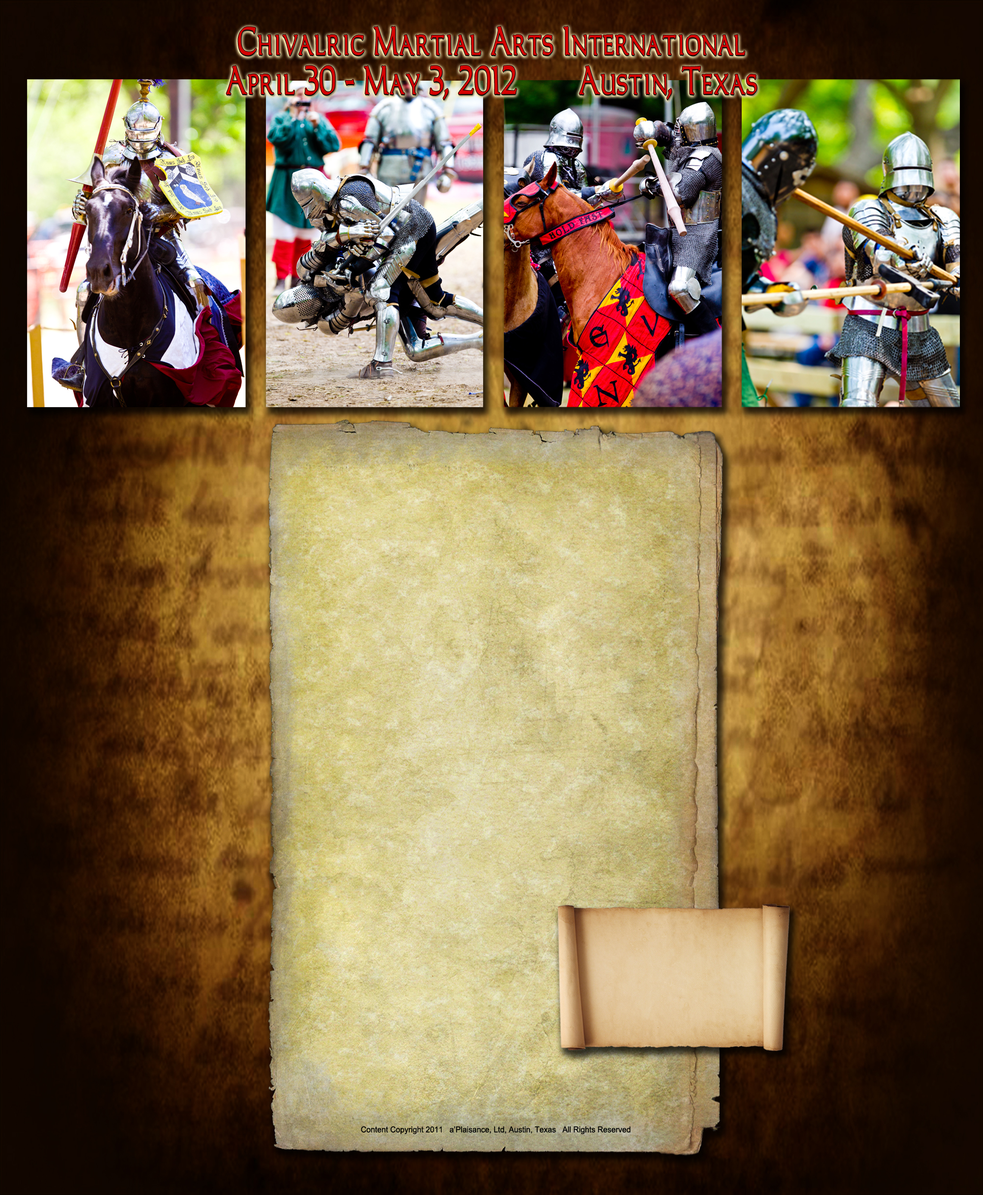
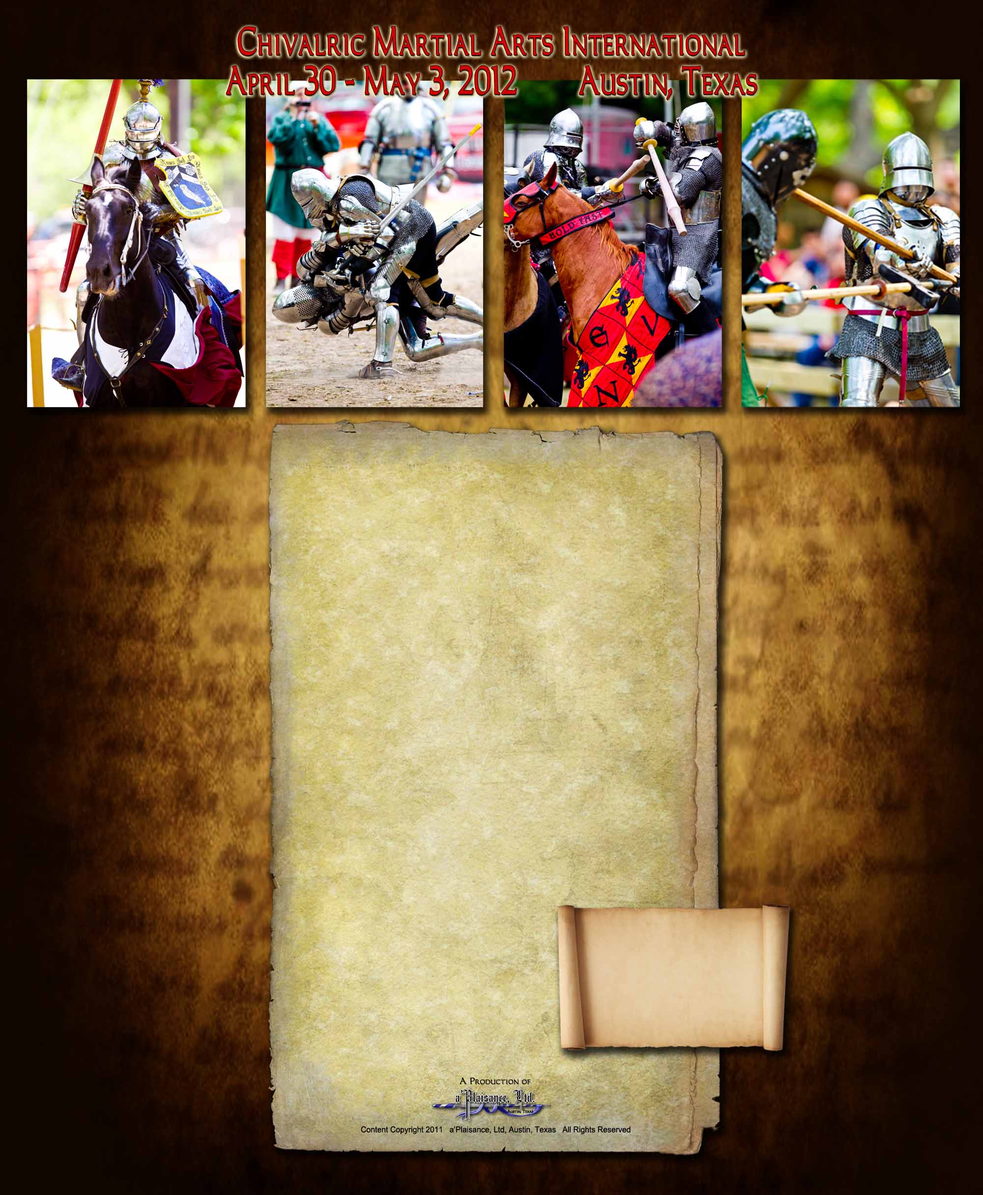
* Fixed positioning of menu elements. * Replaced background with much smaller image.

diff --git a/css/structure.css b/css/structure.css
@@ -1,79 +1,79 @@
 .body {
     background: url('../img/structure/bg/CMAIHomeBG.jpg') no-repeat scroll;
+    background-position: top center;
 }
 
 .textPane {
     position:relative;
     top: 950px;
-    left: 580px;
+    left: 557px;
     width: 800px;
-    /*border: 2px solid aqua;*/
 }
 
 .slideshow {
     position: absolute;
-    top: 1196px;
-    left: 1196px;
+    top: 1191px;
+    left: 1147px;
     border: 7px solid #2A1E08;
     border-radius: 5px;
 }
 
 .aPlaisanceLogo {
     position: absolute;
-    top: 2185px;
-    left: 876px;
+    top: 2187px;
+    left: 830px;
 }
 
 .home-menu-button {
     position: absolute;
     top: 895px;
-    left: 570px;
+    left: 535px;
 }
 
 .instructors-menu-button {
     position: absolute;
     top: 898px;
-    left: 650px;
+    left: 620px;
 }
 
 
 .classes-menu-button {
     position: absolute;
     top: 899px;
-    left: 770px;
+    left: 740px;
 
 }
 
 .schedule-menu-button {
     position: absolute;
     top: 903px;
-    left: 865px;
+    left: 835px;
 
 }
 
 .faq-menu-button {
     position: absolute;
     top: 901px;
-    left: 975px;
+    left: 945px;
 
 }
 
 .contact-menu-button {
     position: absolute;
     top: 905px;
-    left: 1070px;
+    left: 1040px;
 }
 
 .directions-menu-button {
     position: absolute;
     top: 898px;
-    left: 1193px;
+    left: 1163px;
 }
 
 .registration-menu-button {
     position: absolute;
     top: 902px;
-    left: 1310px;
+    left: 1280px;
 }
 
 .blank {
